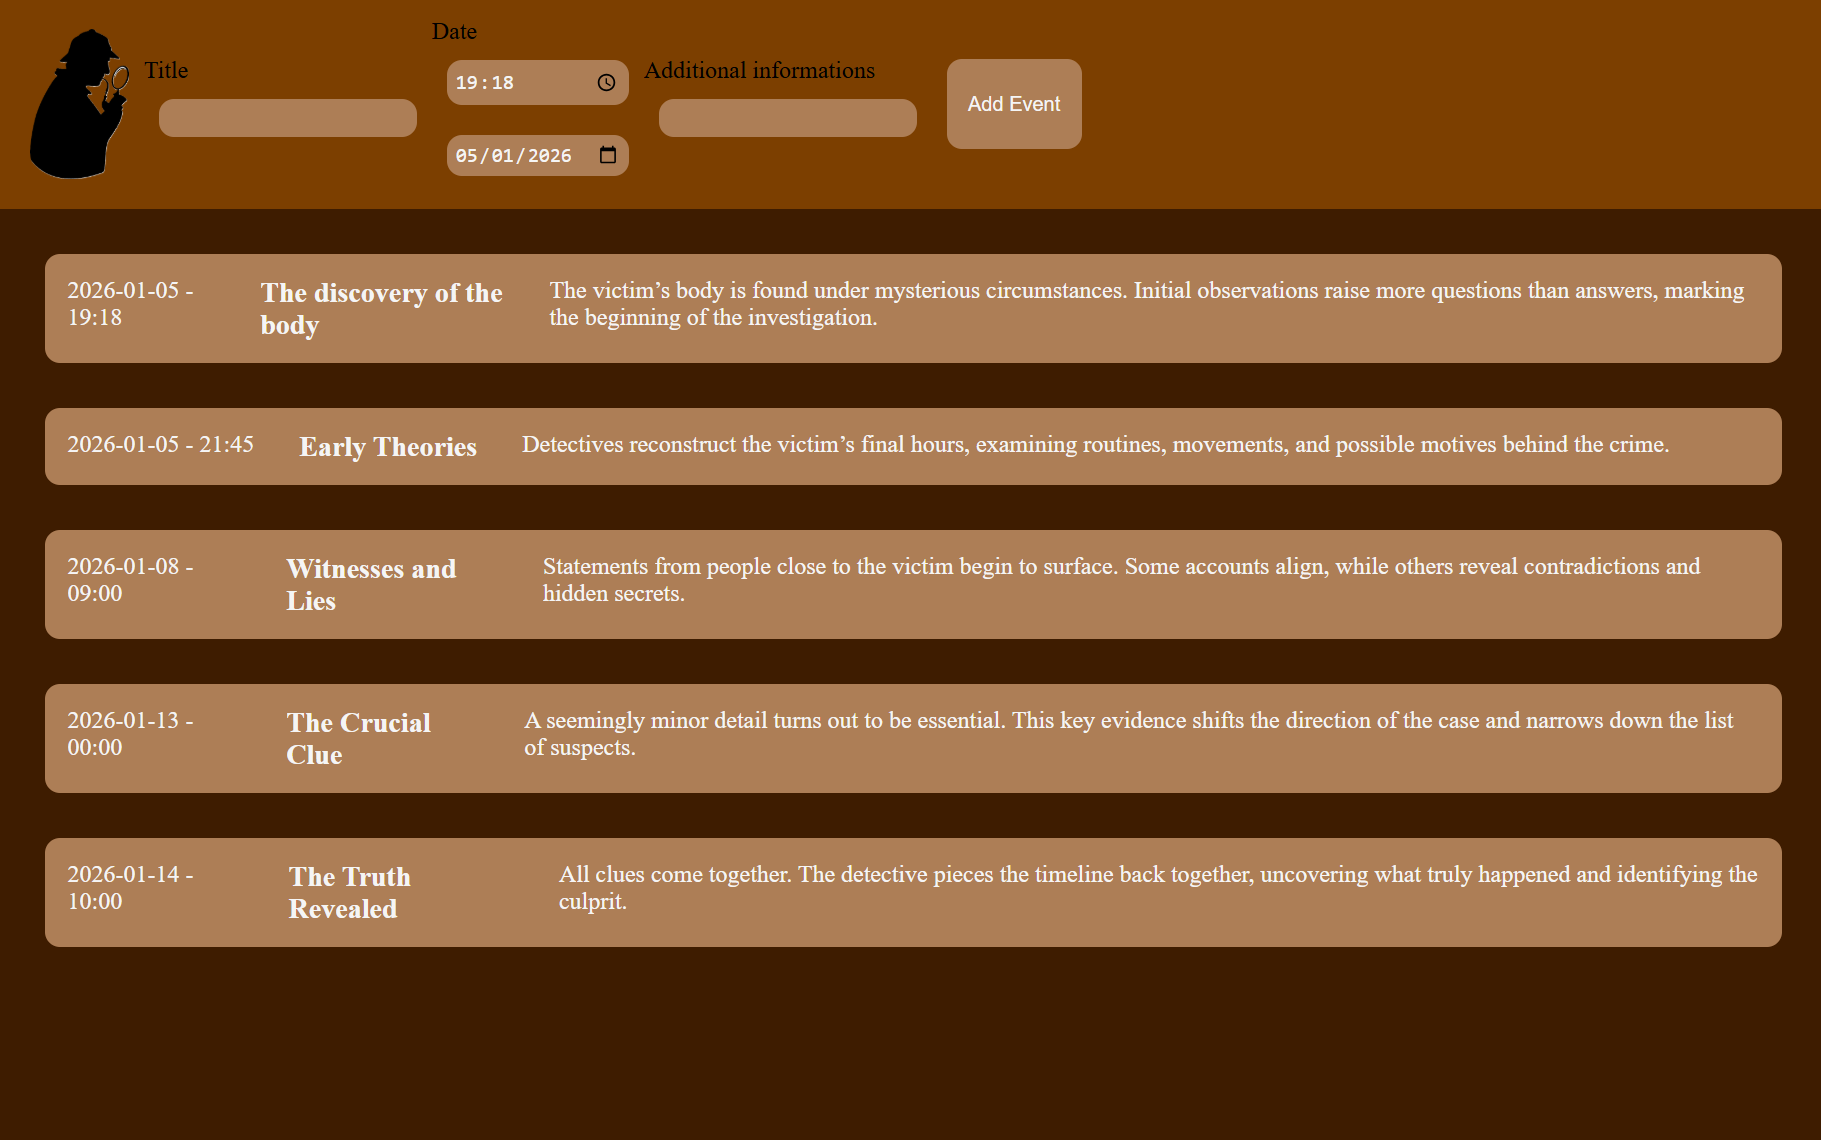
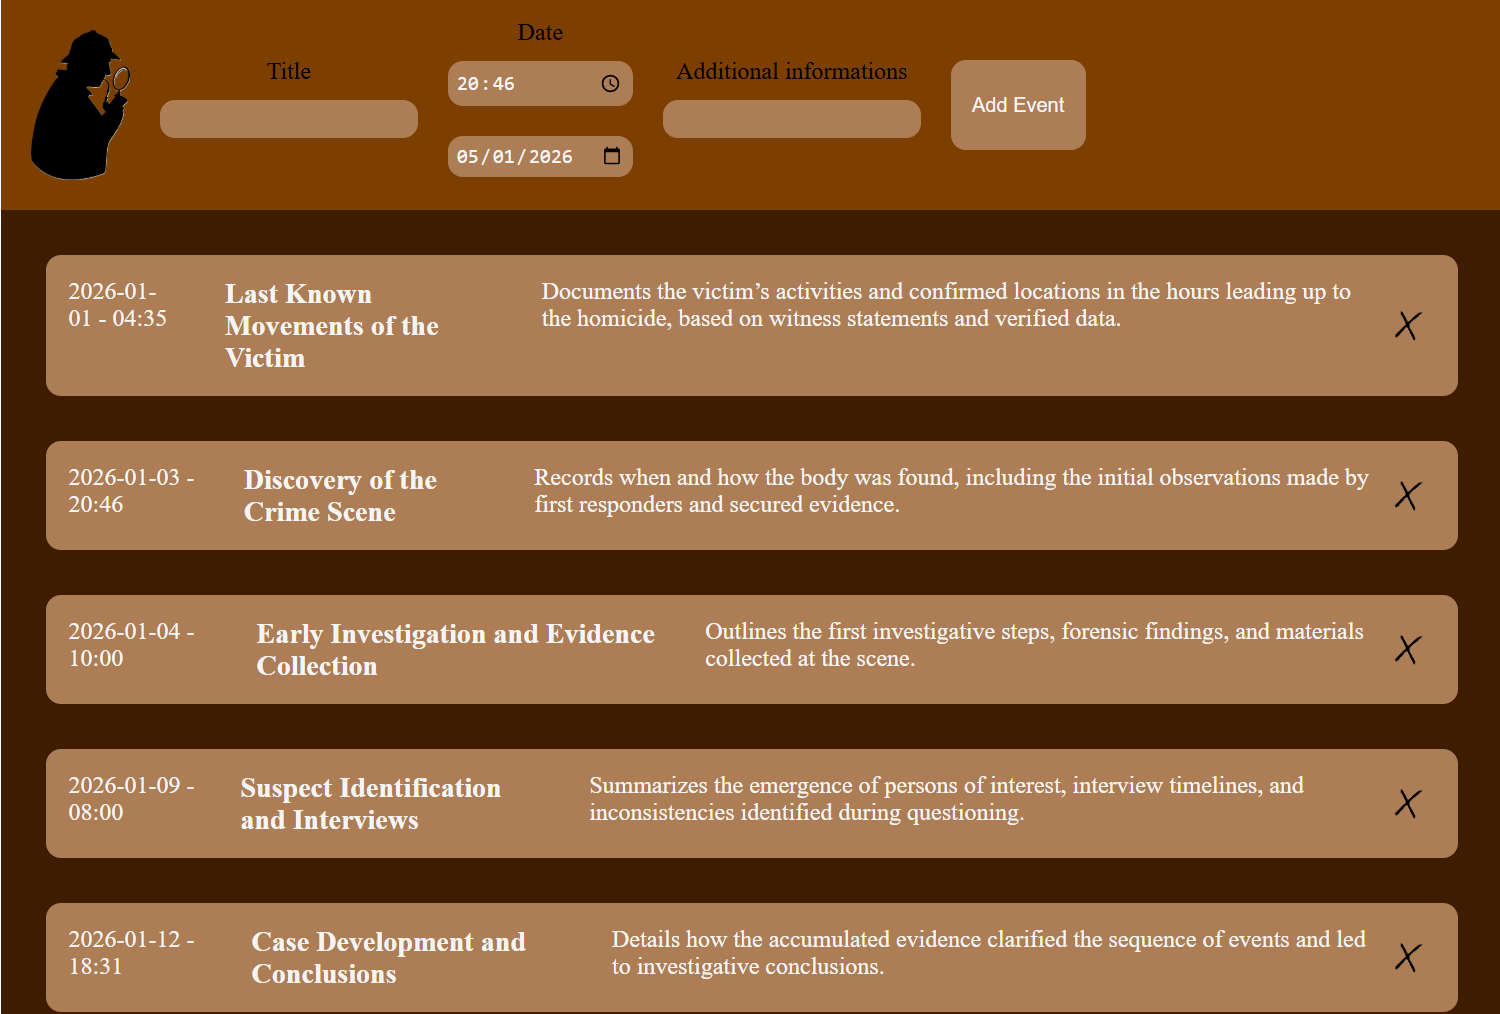
Fixed the header. Updated the working image.

diff --git a/styles/style.css b/styles/style.css
@@ -9,6 +9,8 @@ body {
 
 header {
     position: sticky;
+    top: 0;
+    z-index: 100;
     background-color: #7c3f00;
     padding: 10px;
     display: flex;
@@ -48,6 +50,10 @@ input {
     border-radius: 10px;
     color: whitesmoke;
     margin: 10px;
+}
+
+label {
+    text-align: center;
 }
 
 #submit {
